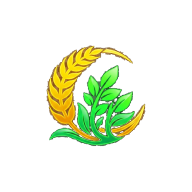
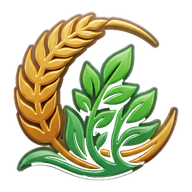
feat(branding): yeni 3D claymorphic seffaf ata takvimi logosu yayina alindi

diff --git a/scripts/deploy-new-ata-logo.py b/scripts/deploy-new-ata-logo.py
@@ -1,0 +1,201 @@
+import os
+import cv2
+import numpy as np
+from PIL import Image
+
+input_path = r"C:\Users\hp\.gemini\antigravity-ide\brain\420551f3-63b3-4a21-abf0-bbdd65f3cfb1\.user_uploaded\media_1787138816787.jpg"
+
+print("Starting high-definition logo generation and deployment...")
+
+img_bgr = cv2.imread(input_path)
+h, w = img_bgr.shape[:2]
+img_rgb = cv2.cvtColor(img_bgr, cv2.COLOR_BGR2RGB)
+img_hsv = cv2.cvtColor(img_bgr, cv2.COLOR_BGR2HSV)
+img_lab = cv2.cvtColor(img_bgr, cv2.COLOR_BGR2LAB)
+
+R = img_rgb[:, :, 0].astype(np.float32)
+G = img_rgb[:, :, 1].astype(np.float32)
+B = img_rgb[:, :, 2].astype(np.float32)
+H = img_hsv[:, :, 0].astype(np.float32)
+S = img_hsv[:, :, 1].astype(np.float32)
+V = img_hsv[:, :, 2].astype(np.float32)
+L = img_lab[:, :, 0].astype(np.float32)
+
+# GrabCut GMM seed mask
+gc_mask = np.full((h, w), cv2.GC_PR_BGD, dtype=np.uint8)
+
+is_definite_bg = (
+    (L < 42) |
+    ((V < 46) & (S < 38)) |
+    ((R < 48) & (G < 54) & (B < 48))
+)
+gc_mask[is_definite_bg] = cv2.GC_BGD
+gc_mask[0:30, :] = cv2.GC_BGD
+gc_mask[h-30:h, :] = cv2.GC_BGD
+gc_mask[:, 0:30] = cv2.GC_BGD
+gc_mask[:, w-30:w] = cv2.GC_BGD
+
+is_fg_gold = (H >= 12) & (H <= 38) & (S >= 60) & (V >= 70) & (R >= 130) & (R - B >= 45)
+is_fg_green = (H >= 38) & (H <= 85) & (S >= 70) & (V >= 70) & (G >= 95) & (G - R >= 25) & (G - B >= 25)
+is_fg_base = (H >= 35) & (H <= 90) & (S >= 60) & (V >= 65) & (G >= 85) & (G - R >= 18)
+is_fg_spec = (L >= 160) & (S >= 35)
+
+is_definite_fg = is_fg_gold | is_fg_green | is_fg_base | is_fg_spec
+gc_mask[is_definite_fg] = cv2.GC_FGD
+
+is_pr_gold = (H >= 8) & (H <= 45) & (S >= 35) & (L >= 55) & (R >= 90) & (R - B >= 20)
+is_pr_green = (H >= 34) & (H <= 95) & (S >= 45) & (L >= 55) & (G >= 70) & (G - R >= 12)
+is_pr_fg = (is_pr_gold | is_pr_green) & (~is_definite_bg) & (~is_definite_fg)
+gc_mask[is_pr_fg] = cv2.GC_PR_FGD
+
+bgdModel = np.zeros((1, 65), np.float64)
+fgdModel = np.zeros((1, 65), np.float64)
+cv2.grabCut(img_bgr, gc_mask, None, bgdModel, fgdModel, 10, cv2.GC_INIT_WITH_MASK)
+
+raw_fg = np.where((gc_mask == cv2.GC_FGD) | (gc_mask == cv2.GC_PR_FGD), 255, 0).astype(np.uint8)
+
+num_labels, labels, stats, centroids = cv2.connectedComponentsWithStats(raw_fg)
+clean = np.zeros_like(raw_fg)
+for i in range(1, num_labels):
+    if stats[i, cv2.CC_STAT_AREA] > 100:
+        clean[labels == i] = 255
+
+contours, hierarchy = cv2.findContours(clean, cv2.RETR_CCOMP, cv2.CHAIN_APPROX_SIMPLE)
+filled = np.zeros_like(clean)
+for idx, c in enumerate(contours):
+    if hierarchy[0][idx][3] != -1:
+        if cv2.contourArea(c) < 800:
+            cv2.drawContours(filled, [c], -1, 255, -1)
+clean = cv2.bitwise_or(clean, filled)
+
+smooth_alpha = cv2.GaussianBlur(clean.astype(np.float32) / 255.0, (3, 3), 0)
+
+bg_color = np.array([24.0, 23.0, 31.0], dtype=np.float32)
+defringed_rgb = np.zeros_like(img_rgb)
+for c in range(3):
+    chan = (img_rgb[:, :, c].astype(np.float32) - (1.0 - smooth_alpha) * bg_color[c]) / np.maximum(smooth_alpha, 0.001)
+    defringed_rgb[:, :, c] = np.clip(chan, 0, 255).astype(np.uint8)
+
+rgba = np.zeros((h, w, 4), dtype=np.uint8)
+rgba[:, :, 0:3] = defringed_rgb
+rgba[:, :, 3] = (smooth_alpha * 255).astype(np.uint8)
+
+# Crop
+alpha_mask = rgba[:, :, 3] > 25
+y_indices, x_indices = np.where(alpha_mask)
+min_x, max_x = x_indices.min(), x_indices.max()
+min_y, max_y = y_indices.min(), y_indices.max()
+
+cropped = rgba[min_y:max_y+1, min_x:max_x+1]
+crop_h, crop_w = cropped.shape[:2]
+
+target_size = 1024
+margin = int(target_size * 0.06)
+max_dim = target_size - 2 * margin
+
+scale = min(max_dim / crop_w, max_dim / crop_h)
+new_w = int(crop_w * scale)
+new_h = int(crop_h * scale)
+
+cropped_pil = Image.fromarray(cropped)
+resized_pil = cropped_pil.resize((new_w, new_h), Image.Resampling.LANCZOS)
+
+final_canvas = Image.new("RGBA", (target_size, target_size), (0, 0, 0, 0))
+paste_x = (target_size - new_w) // 2
+paste_y = (target_size - new_h) // 2
+final_canvas.paste(resized_pil, (paste_x, paste_y), resized_pil)
+
+# Base directories
+base_dir = r"c:\Users\hp\Desktop\Antigravity (1)"
+ata_dir = os.path.join(base_dir, "Antigravity", "Projeler", "ata-takvimi")
+karneyn_dir = os.path.join(base_dir, "Antigravity", "Projeler", "karneyn-web")
+projeler_logo_dir = os.path.join(base_dir, "projeler-logo")
+
+# 1. Save 1024, 512, 192 in ata-takvimi public
+icon_512 = final_canvas.resize((512, 512), Image.Resampling.LANCZOS)
+icon_192 = final_canvas.resize((192, 192), Image.Resampling.LANCZOS)
+
+final_canvas.save(os.path.join(ata_dir, "public", "icon-1024.png"), "PNG")
+icon_512.save(os.path.join(ata_dir, "public", "icon-512.png"), "PNG")
+icon_192.save(os.path.join(ata_dir, "public", "icon-192.png"), "PNG")
+print("Saved ata-takvimi public icons (1024, 512, 192)")
+
+# 2. Save in projeler-logo
+icon_512.save(os.path.join(projeler_logo_dir, "ata-takvimi-icon-512x512.png"), "PNG")
+print("Saved projeler-logo/ata-takvimi-icon-512x512.png")
+
+# 3. Save in karneyn-web public
+icon_512.save(os.path.join(karneyn_dir, "public", "ciftci-takvimi-icon.png"), "PNG")
+icon_192.save(os.path.join(karneyn_dir, "public", "ata-takvimi-icon.png"), "PNG")
+print("Saved karneyn-web public icons (ciftci-takvimi-icon.png, ata-takvimi-icon.png)")
+
+# 4. Update iOS AppIcon (1024x1024 AppIcon-512@2x.png on dark emerald #071a10 or transparent)
+# App Store requires opaque (no alpha) for AppIcon-512@2x.png or background flattening
+ios_icon_dir = os.path.join(ata_dir, "ios", "App", "App", "Assets.xcassets", "AppIcon.appiconset")
+if os.path.exists(ios_icon_dir):
+    ios_canvas = Image.new("RGB", (1024, 1024), (7, 26, 16)) # #071a10
+    ios_logo = final_canvas.resize((850, 850), Image.Resampling.LANCZOS)
+    ios_canvas.paste(ios_logo, (87, 87), ios_logo)
+    ios_canvas.save(os.path.join(ios_icon_dir, "AppIcon-512@2x.png"), "PNG")
+    print("Saved iOS AppIcon-512@2x.png (flattened RGB for App Store compliance)")
+
+# 5. Generate Android Launcher & Splash Screens
+res_dir = os.path.join(ata_dir, "android", "app", "src", "main", "res")
+if os.path.exists(res_dir):
+    mipmaps = [
+        ('mipmap-mdpi', 48, 108),
+        ('mipmap-hdpi', 72, 162),
+        ('mipmap-xhdpi', 96, 216),
+        ('mipmap-xxhdpi', 144, 324),
+        ('mipmap-xxxhdpi', 192, 432),
+    ]
+
+    for m_dir, icon_sz, fg_sz in mipmaps:
+        target_dir = os.path.join(res_dir, m_dir)
+        os.makedirs(target_dir, exist_ok=True)
+
+        # 1. ic_launcher.png (Kare launcher - transparent)
+        ic_std = final_canvas.resize((icon_sz, icon_sz), Image.Resampling.LANCZOS)
+        ic_std.save(os.path.join(target_dir, "ic_launcher.png"), "PNG")
+
+        # 2. ic_launcher_round.png
+        ic_round = final_canvas.resize((icon_sz, icon_sz), Image.Resampling.LANCZOS)
+        ic_round.save(os.path.join(target_dir, "ic_launcher_round.png"), "PNG")
+
+        # 3. ic_launcher_foreground.png (Adaptive icon with safe padding)
+        fg_canvas = Image.new("RGBA", (fg_sz, fg_sz), (0, 0, 0, 0))
+        inner_sz = int(fg_sz * 0.72)
+        fg_logo = final_canvas.resize((inner_sz, inner_sz), Image.Resampling.LANCZOS)
+        offset = (fg_sz - inner_sz) // 2
+        fg_canvas.paste(fg_logo, (offset, offset), fg_logo)
+        fg_canvas.save(os.path.join(target_dir, "ic_launcher_foreground.png"), "PNG")
+
+    # Android Splash Screens
+    splashes = [
+        ('drawable', 480, 800),
+        ('drawable-port-mdpi', 320, 480),
+        ('drawable-port-hdpi', 480, 800),
+        ('drawable-port-xhdpi', 720, 1280),
+        ('drawable-port-xxhdpi', 960, 1600),
+        ('drawable-port-xxxhdpi', 1280, 1920),
+        ('drawable-land-mdpi', 480, 320),
+        ('drawable-land-hdpi', 800, 480),
+        ('drawable-land-xhdpi', 1280, 720),
+        ('drawable-land-xxhdpi', 1600, 960),
+        ('drawable-land-xxxhdpi', 1920, 1280),
+    ]
+
+    for s_dir, sw, sh in splashes:
+        s_folder = os.path.join(res_dir, s_dir)
+        os.makedirs(s_folder, exist_ok=True)
+        splash_canvas = Image.new("RGBA", (sw, sh), (7, 26, 16, 255))
+        logo_sz = min(int(min(sw, sh) * 0.45), 340)
+        s_logo = final_canvas.resize((logo_sz, logo_sz), Image.Resampling.LANCZOS)
+        sx = (sw - logo_sz) // 2
+        sy = (sh - logo_sz) // 2
+        splash_canvas.paste(s_logo, (sx, sy), s_logo)
+        splash_canvas.save(os.path.join(s_folder, "splash.png"), "PNG")
+
+    print("Generated all Android launcher mipmaps and splash screens")
+
+print("All logo files successfully generated and distributed across projects!")
